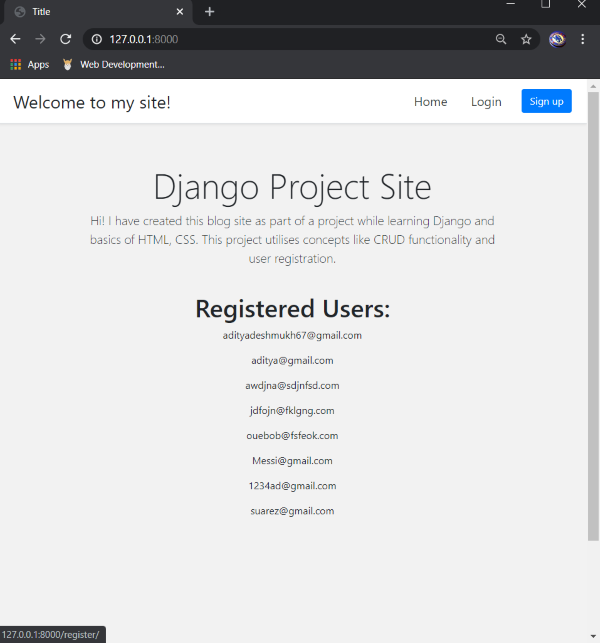
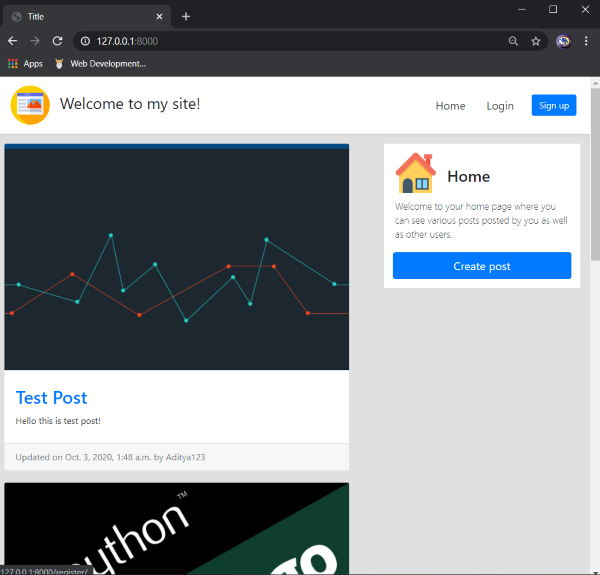
Readme Update

diff --git a/README.md b/README.md
@@ -1,9 +1,10 @@
 # my-site
 ###### (Project currently on-going)
  A Django based site created to for learning backend and frontend basics.
- This project makes use of user registration and authentication concepts.
+ This project makes use of user registration and authentication concepts as well as CRUD functionality.
  
- User can register, or login if already registered. After logging in user can also change their account details and password.
+ User can register, or login if already registered. After logging in, user can also change their account details and password.
+ Posts can be created with images and descriptions.
 ## Home Screen:
 ![](Images/Home.png)
 
